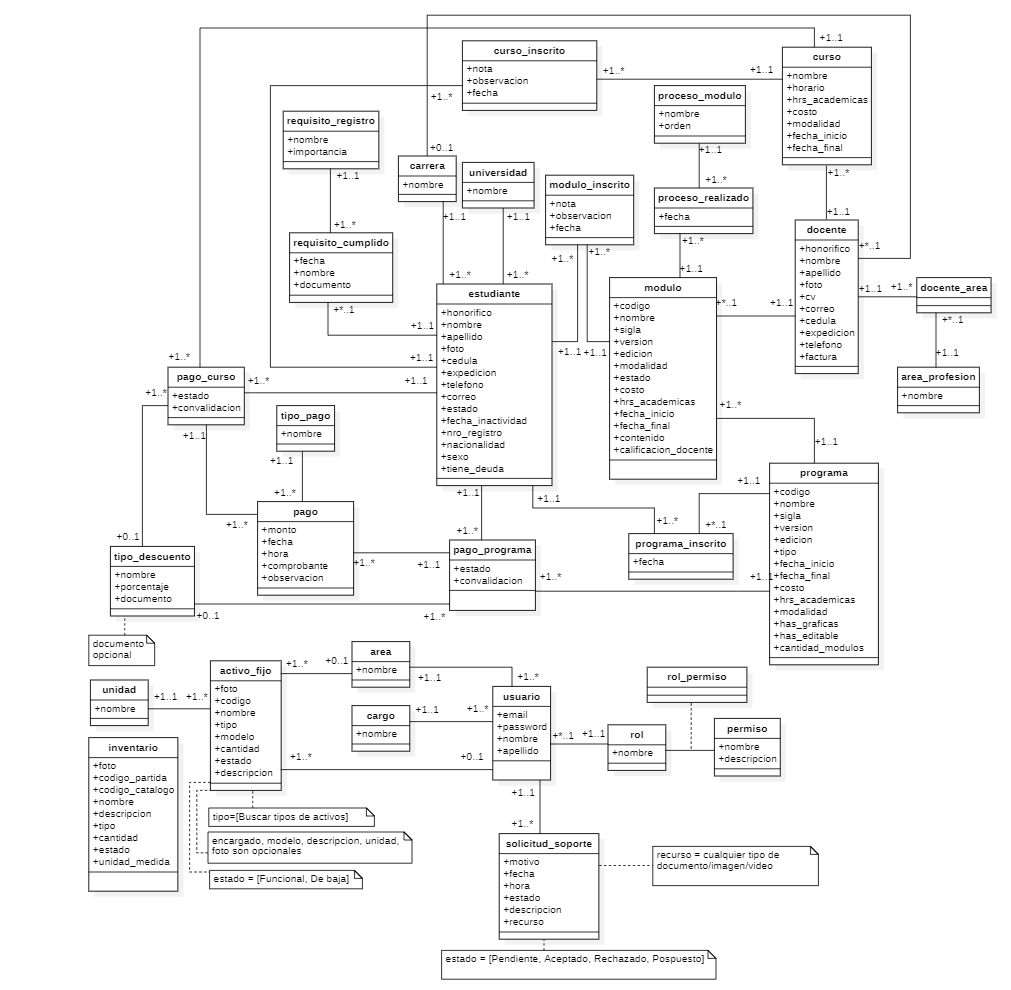
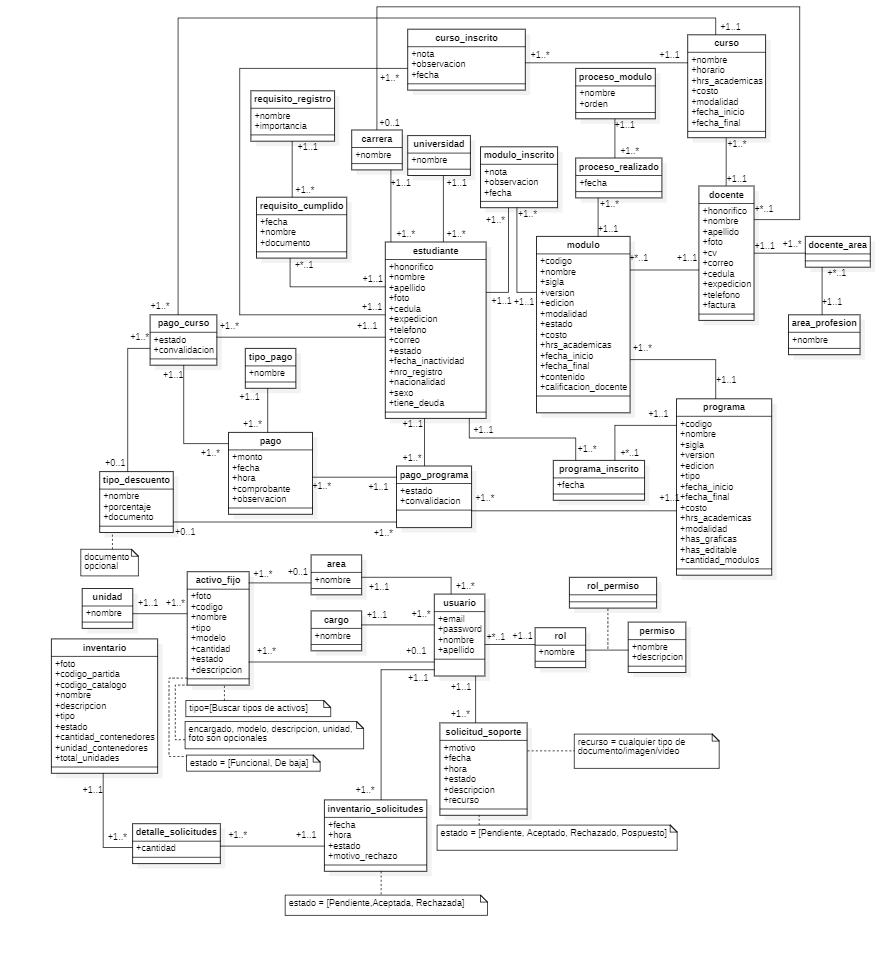
add(inventory request): Add model and migrations

Changed region(s): [[0.0607, 0.0, 1.0, 1.0]]

diff --git a/database/seeders/RoleSeeder.php b/database/seeders/RoleSeeder.php
@@ -28,9 +28,11 @@ class RoleSeeder extends Seeder
             Permission::create(['name' => 'bitacora.index', 'description' => 'Gestionar la bitacora', 'type' => 'Administrativo'])->syncRoles($admin);
             Permission::create(['name' => 'soporte.index', 'description' => 'Permite editar las solicitudes', 'type' => 'Administrativo'])->syncRoles($admin);
             Permission::create(['name' => 'activos.index', 'description' => 'Permite gestionar los activos', 'type' => 'Administrativo'])->syncRoles($admin);
-            Permission::create(['name' => 'inventario.index', 'description' => 'Gestionar inventario', 'type' => 'Administrativo'])->syncRoles($admin);
             Permission::create(['name' => 'unidad.index', 'description' => 'Gestionar unidades', 'type' => 'Administrativo'])->syncRoles($admin);
             Permission::create(['name' => 'eliminar', 'description' => 'Permite eliminar datos en todo el sistema', 'type' => 'Administrativo'])->syncRoles($admin);
+            Permission::create(['name' => 'inventario.index', 'description' => 'Gestionar inventario', 'type' => 'Administrativo'])->syncRoles($admin);
+            Permission::create(['name' => 'solicitudes.index', 'description' => 'Gestionar solicitudes', 'type' => 'Administrativo'])->syncRoles($admin);
+
             // Permission::create(['name' => 'recepcion.index', 'description' => 'Gestionar recepcion de documentos', 'type' => 'Administrativo'])->syncRoles($admin);
             // Permission::create(['name' => 'movimiento.index', 'description' => 'Gestionar movimiento de la documentacion', 'type' => 'Administrativo'])->syncRoles($admin);
             // Permission::create(['name' => 'contrataciones.index', 'description' => 'Gestionar contrataciones de docentes', 'type' => 'Administrativo'])->syncRoles($admin);
@@ -38,10 +40,6 @@ class RoleSeeder extends Seeder
             // Permission::create(['name' => 'contratacion.index', 'description' => 'Gestionar contratos de administrativos', 'type' => 'Administrativo'])->syncRoles($admin);
             // Permission::create(['name' => 'marketing.index', 'description' => 'Gestionar clientes', 'type' => 'Administrativo'])->syncRoles($admin);
             // Permission::create(['name' => 'documentos.index', 'description' => 'Gestionar documentos', 'type' => 'Administrativo'])->syncRoles($admin);
-            // Permission::create(['name' => 'tic.index', 'description' => 'Gestionar equipos TIC', 'type' => 'Administrativo'])->syncRoles($admin);
-            // Permission::create(['name' => 'solicitudes.index', 'description' => 'Gestionar solicitudes', 'type' => 'Administrativo'])->syncRoles($admin);
-            // Permission::create(['name' => 'solicitudes.show', 'description' => 'Ver solicitudes', 'type' => 'Administrativo'])->syncRoles($admin);
-
 
             Permission::create(['name' => 'modulo.index', 'description' => 'Gestionar modulos', 'type' => 'Académico'])->syncRoles($admin);
             Permission::create(['name' => 'requisito.index', 'description' => 'Gestionar requisitos', 'type' => 'Académico'])->syncRoles($admin);
@@ -54,9 +52,7 @@ class RoleSeeder extends Seeder
             Permission::create(['name' => 'cursos.index', 'description' => 'Gestionar cursos', 'type' => 'Académico'])->syncRoles($admin);
             // Permission::create(['name' => 'eventos.index', 'description' => 'Gestionar eventos', 'type' => 'Académico'])->syncRoles($admin);
             // Permission::create(['name' => 'calendario.index', 'description' => 'Ver calendario de programas', 'type' => 'Académico'])->syncRoles($admin);
-            // Permission::create(['name' => 'unidad.index', 'description' => 'Gestionar unidad organizacional', 'type' => 'Académico'])->syncRoles($admin);
             // Permission::create(['name' => 'directivos.index', 'description' => 'Gestionar directivos', 'type' => 'Académico'])->syncRoles($admin);
-
 
             Permission::create(['name' => 'descuento.index', 'description' => 'Gestionar descuentos', 'type' => 'Contabilidad'])->syncRoles($admin);
             Permission::create(['name' => 'tipo_pago.index', 'description' => 'Gestionar tipos de pagos', 'type' => 'Contabilidad'])->syncRoles($admin);

diff --git a/database/migrations/2024_07_21_160616_create_inventory_request_details_table.php b/database/migrations/2024_07_21_160616_create_inventory_request_details_table.php
@@ -1,0 +1,33 @@
+<?php
+
+use Illuminate\Database\Migrations\Migration;
+use Illuminate\Database\Schema\Blueprint;
+use Illuminate\Support\Facades\Schema;
+
+return new class extends Migration
+{
+    /**
+     * Run the migrations.
+     */
+    public function up(): void
+    {
+        Schema::create('inventory_request_details', function (Blueprint $table) {
+            $table->id();
+            $table->integer('cantidad');
+            $table->unsignedBigInteger('inventario_solicitud_id');
+            $table->foreign('inventario_solicitud_id')->references('id')->on('inventory_requests');
+            $table->unsignedBigInteger('inventario_id');
+            $table->foreign('inventario_id')->references('id')->on('inventories');
+            $table->string('estado')->nullable();
+            $table->timestamps();
+        });
+    }
+
+    /**
+     * Reverse the migrations.
+     */
+    public function down(): void
+    {
+        Schema::dropIfExists('inventory_request_details');
+    }
+};

diff --git a/database/migrations/2024_07_21_160556_create_inventory_requests_table.php b/database/migrations/2024_07_21_160556_create_inventory_requests_table.php
@@ -1,0 +1,33 @@
+<?php
+
+use Illuminate\Database\Migrations\Migration;
+use Illuminate\Database\Schema\Blueprint;
+use Illuminate\Support\Facades\Schema;
+
+return new class extends Migration
+{
+    /**
+     * Run the migrations.
+     */
+    public function up(): void
+    {
+        Schema::create('inventory_requests', function (Blueprint $table) {
+            $table->id();
+            $table->string('fecha');
+            $table->string('hora');
+            $table->string('estado');
+            $table->string('motivo_rechazo')->nullable();
+            $table->unsignedBigInteger('user_id');
+            $table->foreign('user_id')->references('id')->on('users');
+            $table->timestamps();
+        });
+    }
+
+    /**
+     * Reverse the migrations.
+     */
+    public function down(): void
+    {
+        Schema::dropIfExists('inventory_requests');
+    }
+};

diff --git a/app/Models/InventoryRequest.php b/app/Models/InventoryRequest.php
@@ -1,0 +1,28 @@
+<?php
+
+namespace App\Models;
+
+use Illuminate\Database\Eloquent\Factories\HasFactory;
+use Illuminate\Database\Eloquent\Model;
+use Spatie\Activitylog\LogOptions;
+use Spatie\Activitylog\Models\Activity;
+use Spatie\Activitylog\Traits\LogsActivity;
+
+class InventoryRequest extends Model
+{
+    use HasFactory;
+    use LogsActivity;
+
+    protected $table = 'inventory_requests';
+    protected $guarded = ['id', 'created_at', 'updated_at'];
+
+    public function getActivitylogOptions(): LogOptions
+    {
+        return LogOptions::defaults();
+    }
+
+    public function tapActivity(Activity $activity)
+    {
+        $activity->description = "Solicitudes de inventario";
+    }
+}

diff --git a/app/Models/InventoryRequestDetail.php b/app/Models/InventoryRequestDetail.php
@@ -1,0 +1,14 @@
+<?php
+
+namespace App\Models;
+
+use Illuminate\Database\Eloquent\Factories\HasFactory;
+use Illuminate\Database\Eloquent\Model;
+
+class InventoryRequestDetail extends Model
+{
+    use HasFactory;
+
+    protected $table = 'inventory_request_details';
+    protected $guarded = ['id', 'created_at', 'updated_at'];
+}
